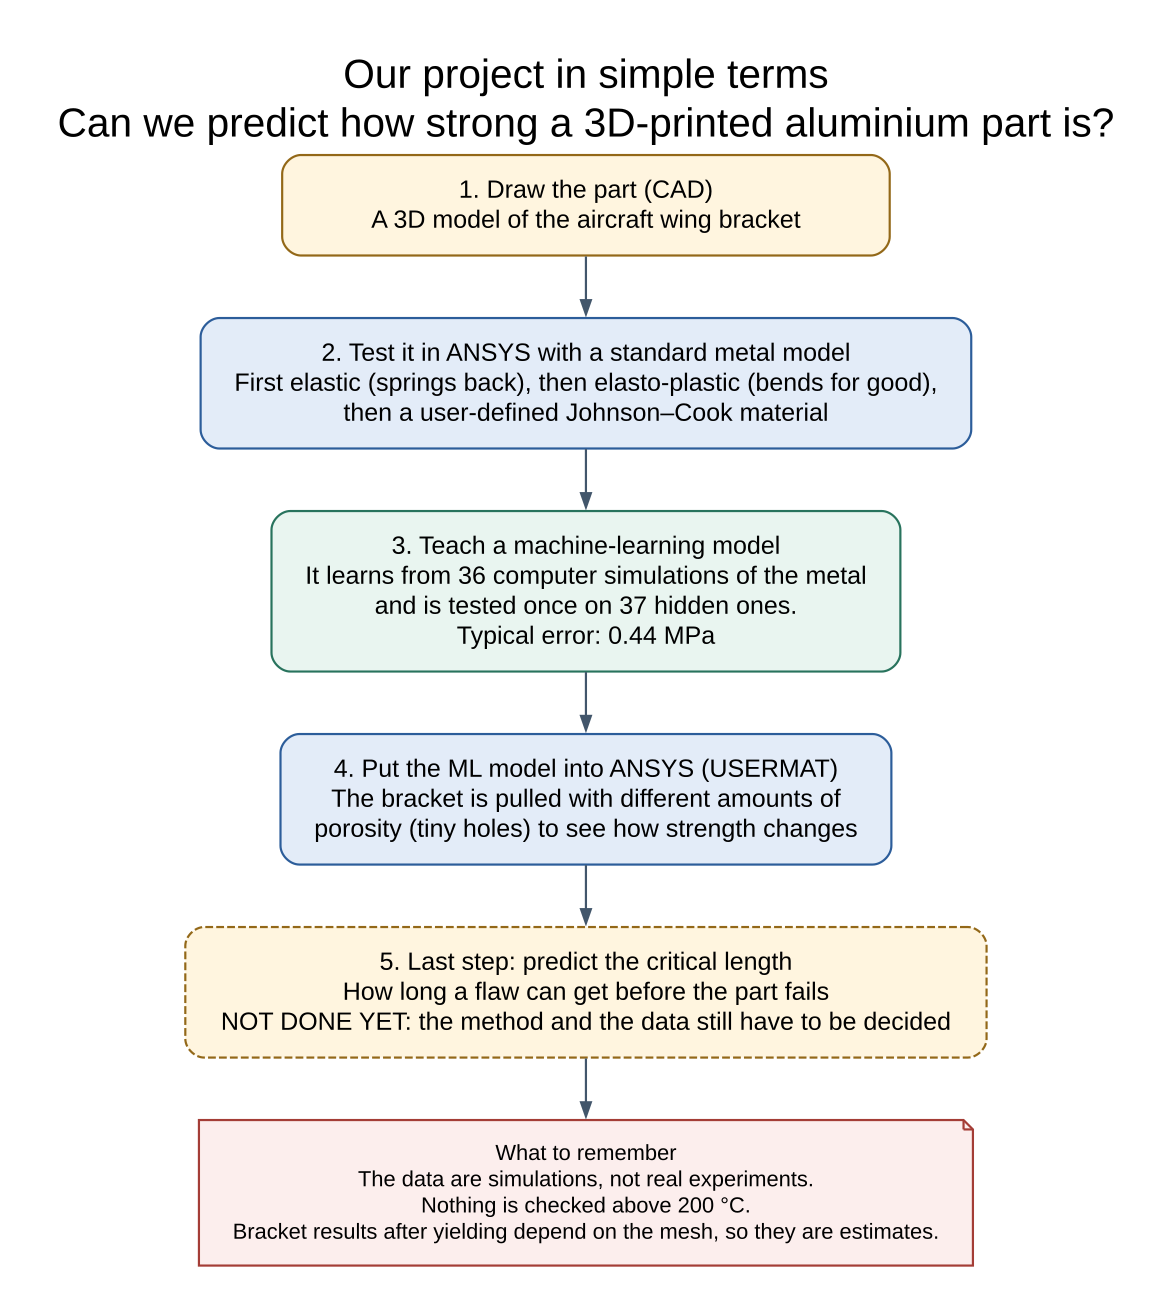
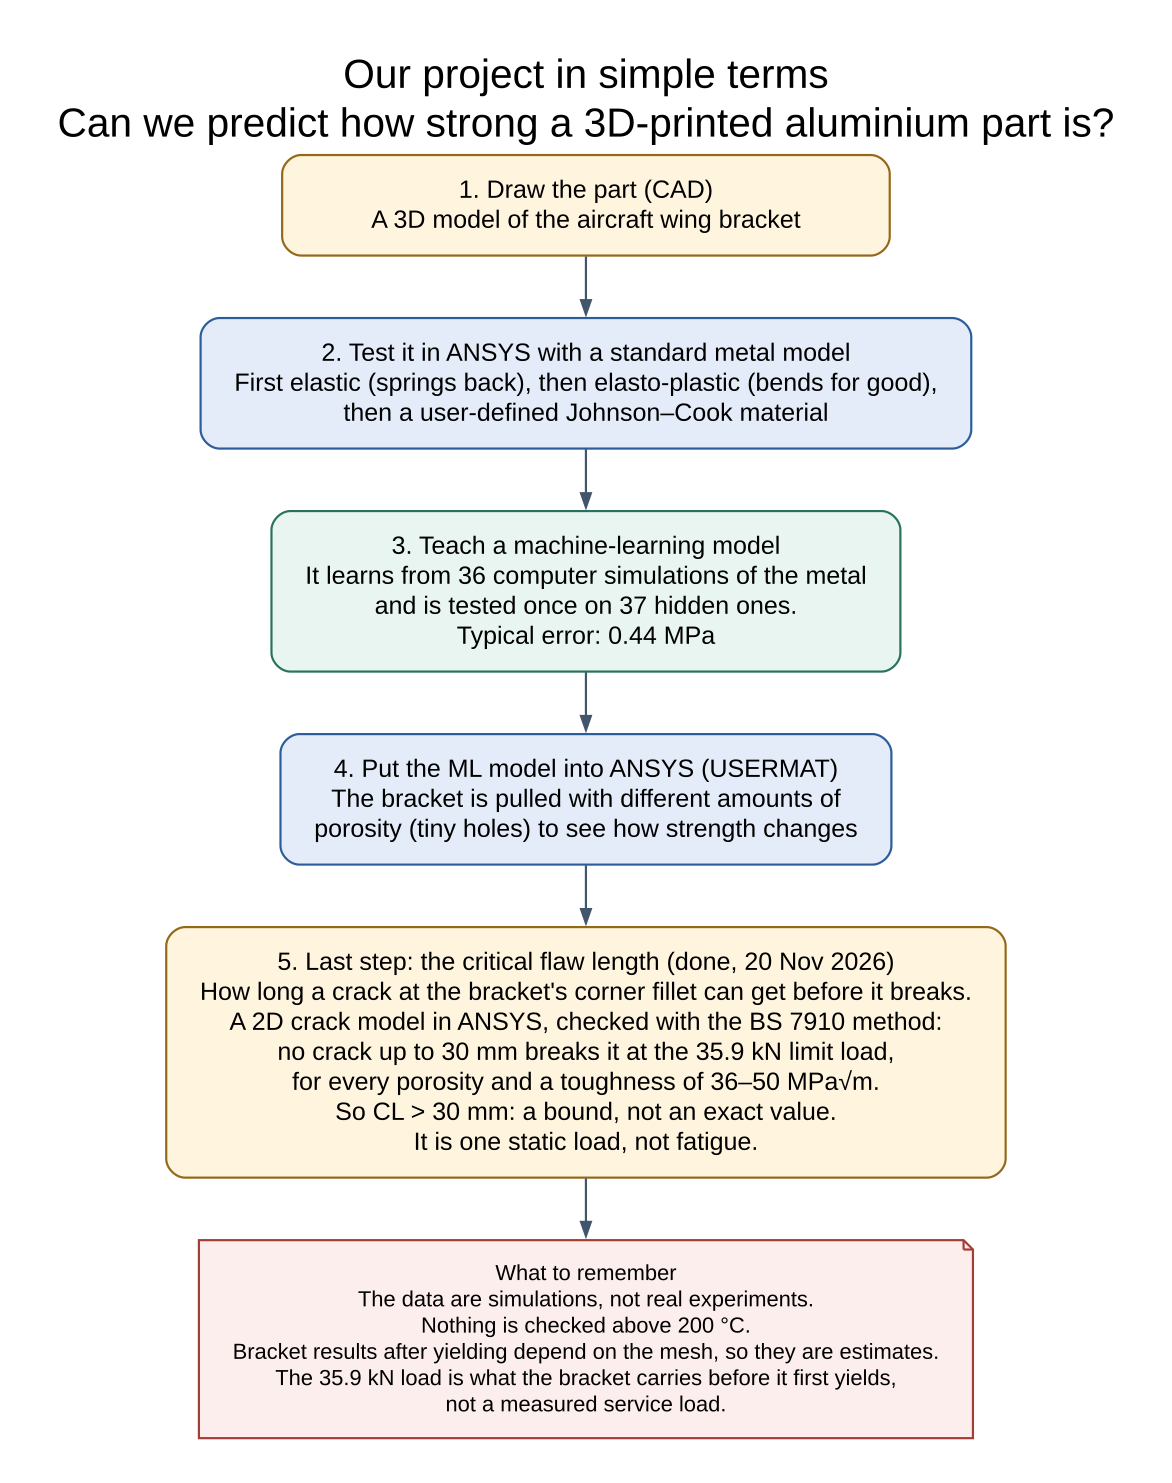
Project flowcharts: show the critical flaw length as assessed
Step 5 of project.dot and simple.dot still read "planned, not done yet"
with a dashed outline. CL was assessed post-hoc on 20 Nov 2026
(decisions F1, F2): 2D fillet crack, K_I by FE, BS 7910 failure
assessment, CL > 30 mm at the 35.9 kN capability-based limit load, at
every porosity, for K_mat 36-50 MPa√m; a bound, not a value; static, not
fatigue. Both charts now say so with a solid outline, and their limits
notes add that 35.9 kN is a capability bound, not a service load.

The numbers are read from report/numbers.json (ClLimitkN, ClCrackMin,
ClCrackMax, ClKmatLow, ClKmatHigh), and build.cjs now fails if the
charts drift from them. PNG and SVG rebuilt with Graphviz 16.1.0; an
unchanged rebuild reproduced the previous files byte for byte. The
folder README no longer describes step 5 as planned.

Claude-Session: https://claude.ai/code/session_016ybAAThHpj9SNFcfTuQaiq

Changed region(s): [[0.0307, 0.0305, 0.9522, 0.9764]]

diff --git a/docs/project-flowchart/README.md b/docs/project-flowchart/README.md
@@ -1,13 +1,17 @@
 # Whole-project flowchart
 
-`project.svg` / `project.png` show the project in the team's order of work: (1) CAD model, (2) ANSYS Johnson–Cook material in three stages (elastic, elasto-plastic, user-defined), (3) the ML model (JC-PINN), (4) the USERMAT and its ANSYS simulation, (5) prediction of the critical length. Step 5 is drawn as planned and not done: the repository has no flaw or toughness data, and the method is still to be decided. `project.dot` is the editable source.
+`project.svg` / `project.png` show the project in the team's order of work: (1) CAD model, (2) ANSYS Johnson–Cook material in three stages (elastic, elasto-plastic, user-defined), (3) the ML model (JC-PINN), (4) the USERMAT and its ANSYS simulation, (5) the critical flaw length (CL). `project.dot` is the editable source.
 
-Every figure in the chart comes from [README.md](../../README.md), [decisions.md](../decisions.md) and [umat/README.md](../../umat/README.md). The USERMAT detail is in [../ansys-flowchart/](../ansys-flowchart/README.md).
+Step 5 was assessed post-hoc on 20 Nov 2026, with the locked model unchanged (decisions F1 and F2 in [decisions.md](../decisions.md)). A 2D fillet crack is modelled, K_I comes from the finite-element model, and the BS 7910 failure assessment diagram decides failure. Result: CL > 30 mm at the 35.9 kN capability-based limit load, at every porosity, for K_mat 36–50 MPa√m. This is a bound, not a value, and a static check, not fatigue. The evidence is in [crack2d_2026-11-20/](../../bracket/ansys_usermat/crack2d_2026-11-20/README.md) and [the limit-load check](../proposals/limit-load-check-2026-11-20.md).
+
+Every figure in the chart comes from [README.md](../../README.md), [decisions.md](../decisions.md), [umat/README.md](../../umat/README.md) and, for step 5, [report/numbers.json](../../report/numbers.json). The USERMAT detail is in [../ansys-flowchart/](../ansys-flowchart/README.md).
 
 `simple.png` / `simple.svg` / `simple.dot` is a plain-language five-step version of the same chart.
 
-Rebuild (needs Node with `@viz-js/viz` and `sharp`):
+Rebuild (needs Node with `@viz-js/viz` and `sharp`, for example installed in a scratch folder and found through `NODE_PATH`):
 
 ```bash
 node docs/project-flowchart/build.cjs
 ```
+
+The build stops with an error if the CL numbers in either `.dot` file (limit load, largest crack, K_mat band) no longer match `report/numbers.json`.
